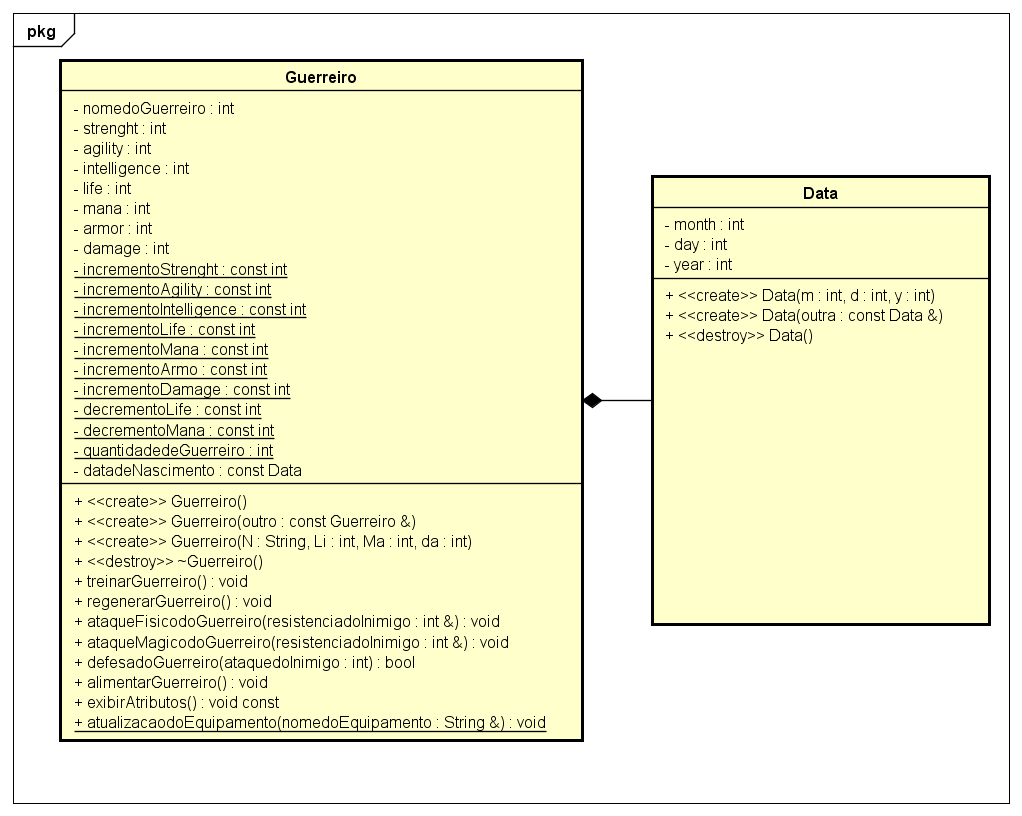
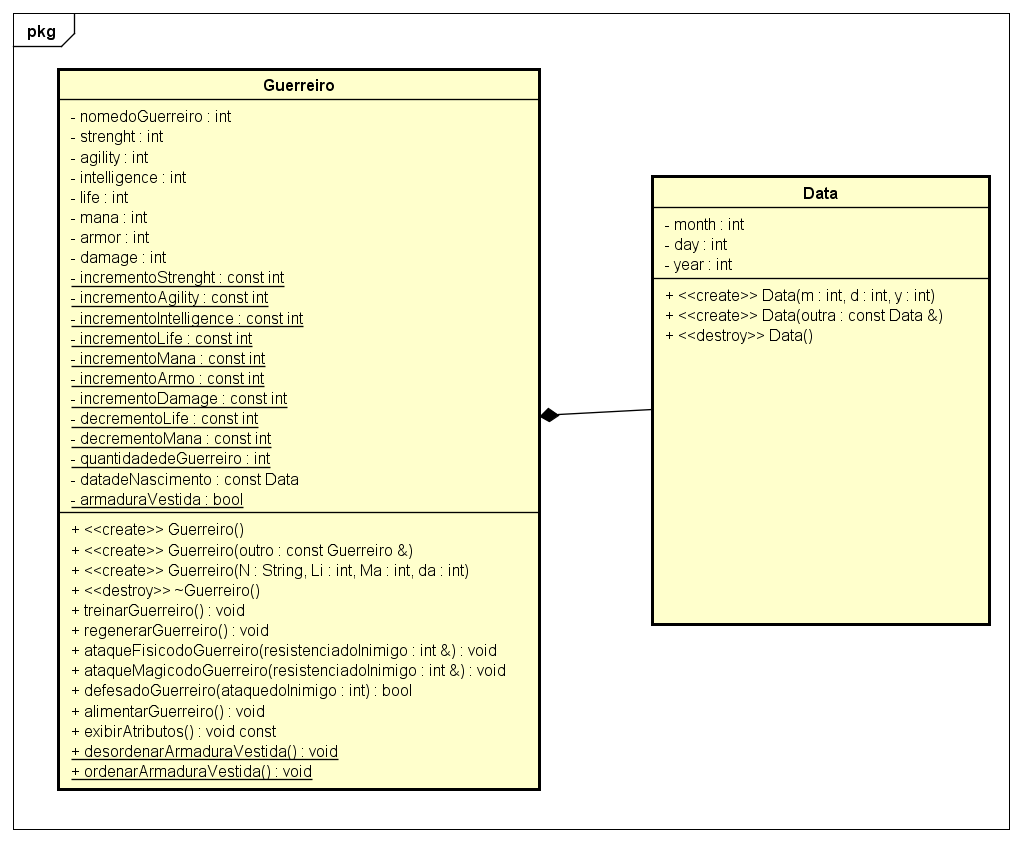
Implementação de dois métodos static na classe Guerreiro.

diff --git a/Guerreiro/Guerreiro.cpp b/Guerreiro/Guerreiro.cpp
@@ -1,4 +1,5 @@
 #include<iostream>
+#include<windows.h>
 #include "Guerreiro.h"
 #include <string>
 
@@ -15,6 +16,8 @@ const int Guerreiro::incrementoArmor  = 2;
 const int Guerreiro::incrementoDamage = 2;
 const int Guerreiro::decrementoLife = 13;
 const int Guerreiro::decrementoMana = 24;
+
+bool Guerreiro::armaduraVestida = false;
 
 Guerreiro::Guerreiro()
 :nomedoGuerreiro("Desconhecido"),strenght(33), agility(33),intelligence(33), life(1200), mana(600),armor(3), damage(33), datadeNascimento()
@@ -186,17 +189,23 @@ void Guerreiro::exibirAtributos() const{
     
     datadeNascimento.exibir();
 }
-
-void Guerreiro::atualizacaodoEquipamento(const string &nomedoEquipamento)
+void Guerreiro::ordenarArmaduraVestida()
 {
-        if (nomedoGuerreiro.compare("escudo") == 0)
-            this->armor += this->incrementoArmor/3;
-        else
-            if (nomedoEquipamento.compare("espada") == 0)
-                this->damage += this->incrementoDamage/3;
-            else
-                if (nomedoEquipamento.compare("botas") == 0)
-                    this->agility += this->incrementoAgility/3;
-                else
-                    std::cout<<"\nEquipamento não reconhecido.\n";
+    if (armaduraVestida == false)
+    {
+        cout<<"\nSeus guerreiros estao sem suas armaduras.\n Foi ordenado o vestimento da armadura ... \n";
+        Sleep(3000);
+        armaduraVestida = true;
+    }
+    cout<<"\Todos os guerreiros estao vestido suas armaduras...\n";
+}
+void Guerreiro::desordenarArmaduraVestida()
+{
+    if (armaduraVestida == true)
+    {
+            cout<<"\nSeus guerreiros estao guardando suas armaduras...\n";
+            Sleep(3000);
+            cout<<"\nArmaduras guardadas...\n";
+            armaduraVestida = false;
+    }
 }

diff --git a/Guerreiro/main.cpp b/Guerreiro/main.cpp
@@ -6,18 +6,17 @@ using std::cout;
 using std::cin;
 
 int main(){
-	Guerreiro g("MigoTiti", 1220, 600, 45, 14, 10, 1994);
+	Guerreiro migo("MigoTiti", 1000, 300, 25, 21, 4, 1997);
+    Guerreiro max("Max", 1220, 600, 45, 14, 10, 1994);
+
     int armor = 40;
-    g.exibirAtributos();
+
+    migo.exibirAtributos();
+    max.exibirAtributos();
+
+    Guerreiro::ordenarArmaduraVestida();
+    Guerreiro::desordenarArmaduraVestida();
     
-    g.ataqueFisicodoGuerreiro(armor);
-    cout<<"resistencia: "<<armor;
-    
-    g.ataqueMagicodoGuerreiro(armor);
-    cout<<"resistencia: "<<armor;
-    
-    g.ataqueMagicodoGuerreiro(armor);
-    cout<<"resistencia: "<<armor;
-    
+        
 	return 0;
 }

diff --git a/Guerreiro/Guerreiro.h b/Guerreiro/Guerreiro.h
@@ -21,7 +21,9 @@ public:
     bool defesadoGuerreiro(int);
     void alimentarGuerreiro();
     void exibirAtributos() const;
-    static void atualizacaodoEquipamento(const string &);
+    
+    static void ordenarArmaduraVestida();
+    static void desordenarArmaduraVestida();
 
     void setNomedoGuerreiro(string);
     void setStrenghtdoGuerreiro(int);
@@ -51,7 +53,9 @@ private:
     int armor;
     int damage;
     const Data datadeNascimento;
-
+    
+    static bool armaduraVestida;
+    
     const static int incrementoStrenght;
     const static int incrementoAgility;
     const static int incrementoIntelligence;
